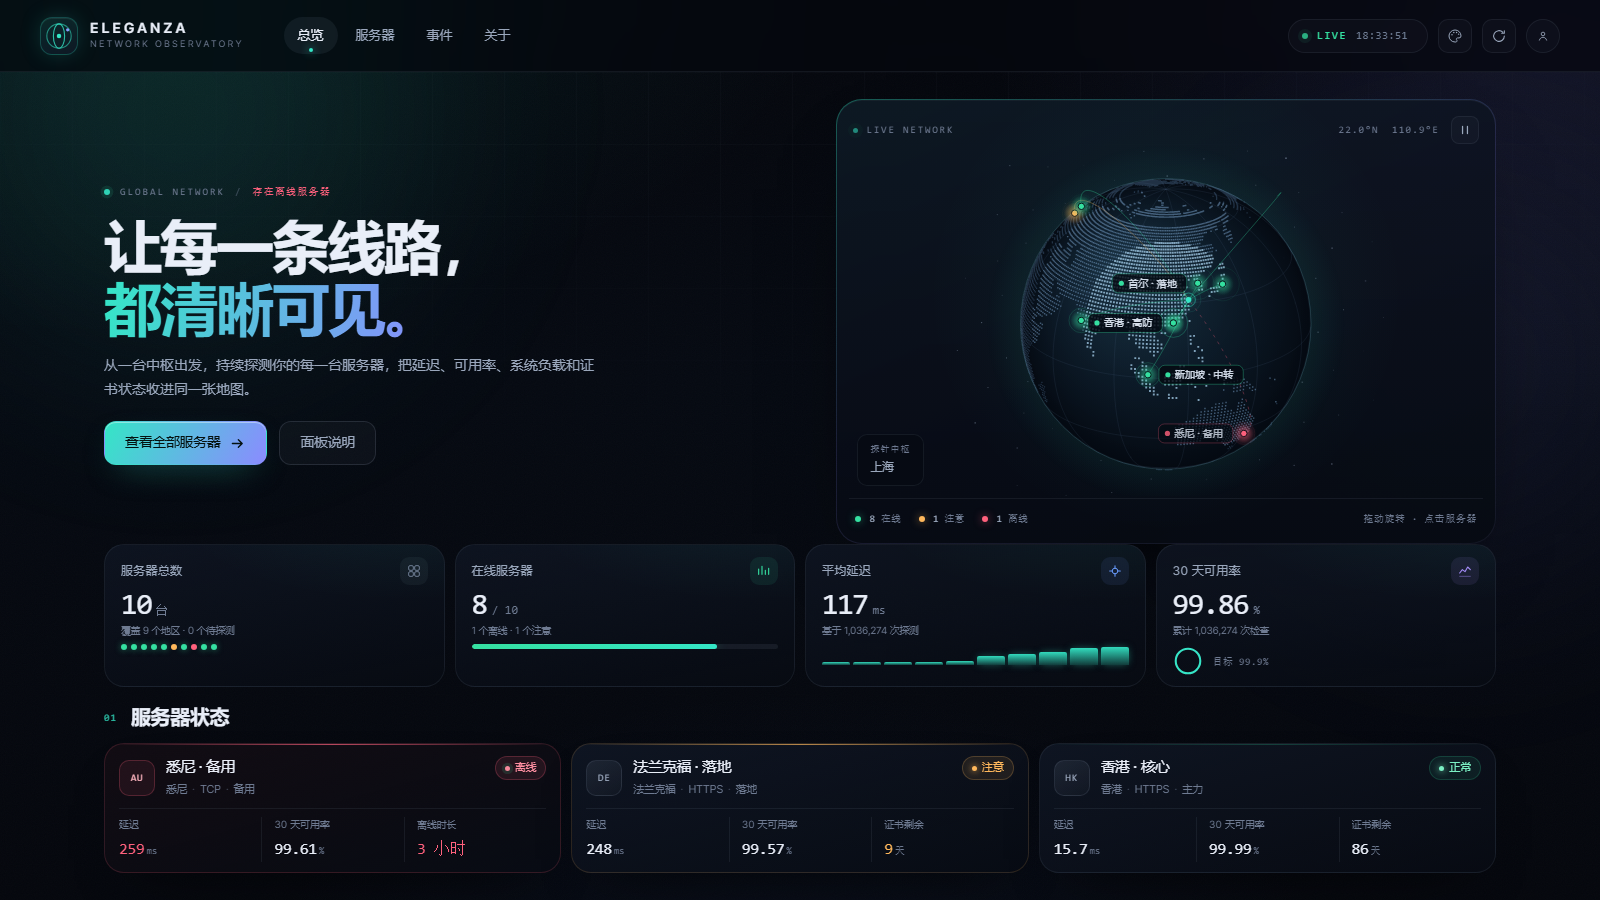
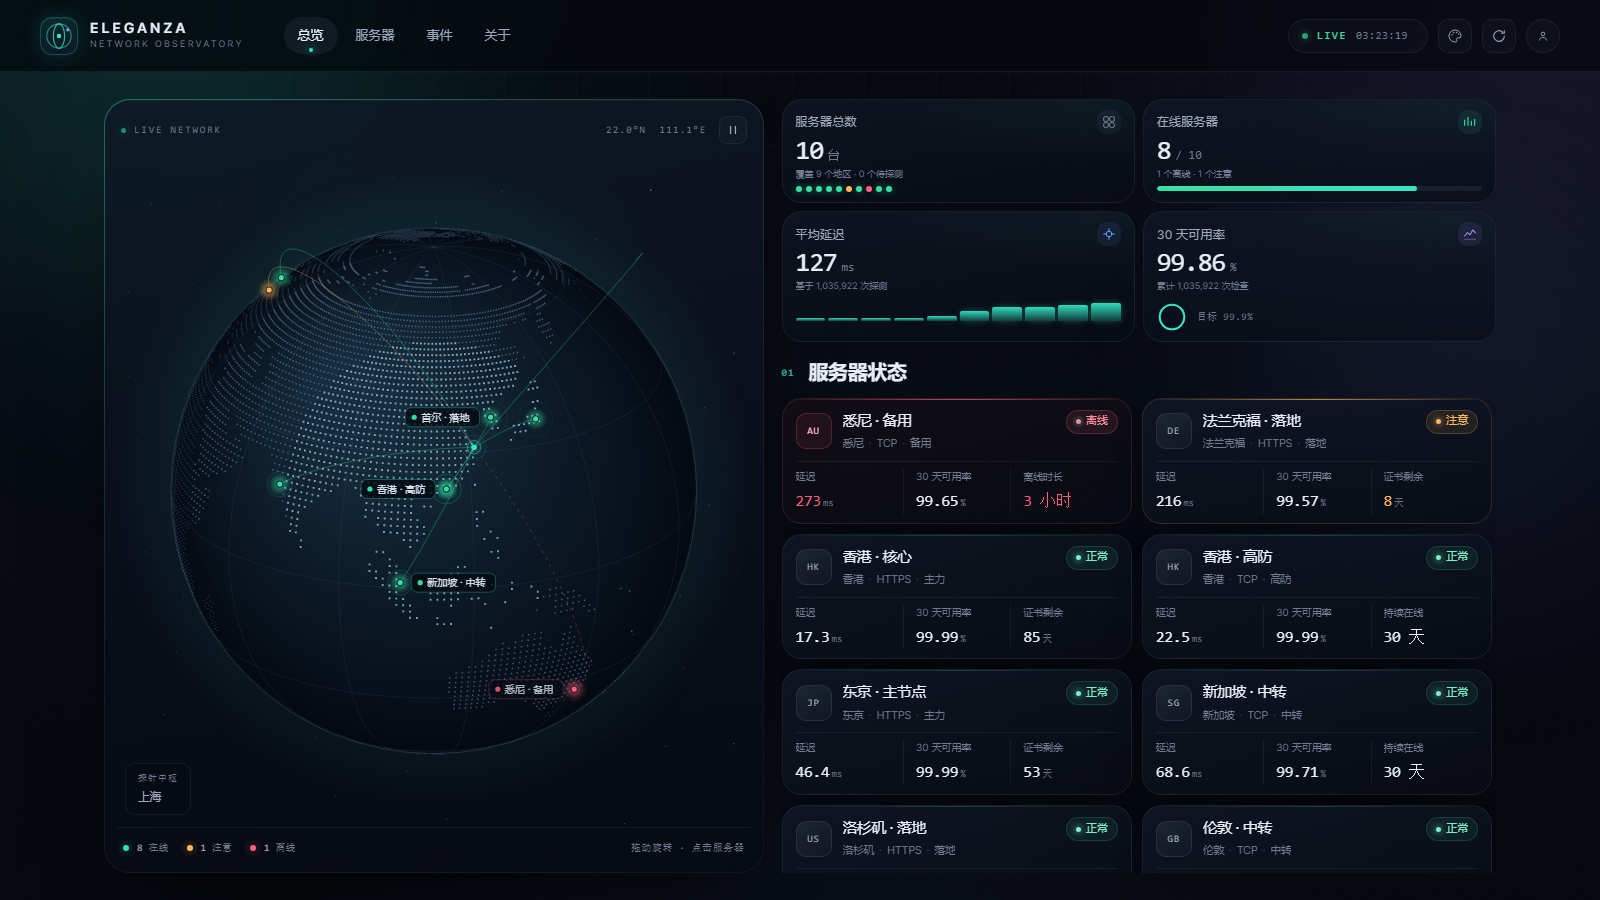
overview: left-right globe and server list layout

diff --git a/public/pages.css b/public/pages.css
@@ -30,39 +30,25 @@ body[data-page="about"] .footer {
 
 /* ----------------------------------------------------------------- overview */
 
+body[data-page="overview"] .shell {
+  display: grid;
+  grid-template-columns: minmax(0, 0.96fr) minmax(0, 1.04fr);
+  grid-template-rows: auto minmax(0, 1fr);
+  gap: 14px 18px;
+}
+
 body[data-page="overview"] .status-banner,
-body[data-page="overview"] .split {
+body[data-page="overview"] .split,
+body[data-page="overview"] .hero-copy {
   display: none;
 }
 
 body[data-page="overview"] .hero {
-  flex: 1;
+  grid-column: 1;
+  grid-row: 1 / -1;
+  display: block;
   min-height: 0;
   padding: 0;
-  gap: clamp(20px, 3vw, 46px);
-}
-
-body[data-page="overview"] .hero-copy {
-  min-height: 0;
-}
-
-body[data-page="overview"] .hero h1 {
-  margin: 14px 0 12px;
-  font-size: clamp(34px, 3.65vw, 58px);
-}
-
-body[data-page="overview"] .hero-desc {
-  max-width: 500px;
-  font-size: 14px;
-  line-height: 1.72;
-}
-
-body[data-page="overview"] .hero-actions {
-  margin-top: 20px;
-}
-
-body[data-page="overview"] .hero-metrics {
-  display: none;
 }
 
 body[data-page="overview"] .globe-panel {
@@ -76,45 +62,53 @@ body[data-page="overview"] .globe-stage {
 }
 
 body[data-page="overview"] .kpis {
-  flex: 0 0 auto;
-  gap: 10px;
-  margin: 0 0 14px;
-}
-
-body[data-page="overview"] .kpi-card {
-  padding: 12px 16px 10px;
-}
-
-body[data-page="overview"] .kpi-icon {
-  width: 28px;
-  height: 28px;
-}
-
-body[data-page="overview"] .kpi-value {
-  margin-top: 4px;
-  font-size: clamp(24px, 2vw, 30px);
-}
-
-body[data-page="overview"] .kpi-foot {
-  margin-top: 4px;
-  font-size: 9.5px;
-}
-
-body[data-page="overview"] .kpi-visual {
-  margin-top: 5px;
-}
-
-body[data-page="overview"] .kpi-meter {
-  margin-top: 6px;
-}
-
-body[data-page="overview"] .nodes-section {
-  flex: 0 0 auto;
-  min-height: 0;
+  grid-column: 2;
+  grid-row: 1;
+  display: grid;
+  grid-template-columns: repeat(2, minmax(0, 1fr));
+  gap: 8px;
   margin: 0;
 }
 
+body[data-page="overview"] .kpi-card {
+  padding: 10px 13px 9px;
+}
+
+body[data-page="overview"] .kpi-icon {
+  width: 24px;
+  height: 24px;
+}
+
+body[data-page="overview"] .kpi-value {
+  margin-top: 3px;
+  font-size: clamp(21px, 1.8vw, 27px);
+}
+
+body[data-page="overview"] .kpi-foot {
+  margin-top: 3px;
+  font-size: 9px;
+}
+
+body[data-page="overview"] .kpi-visual {
+  margin-top: 4px;
+}
+
+body[data-page="overview"] .kpi-meter {
+  margin-top: 5px;
+}
+
+body[data-page="overview"] .nodes-section {
+  grid-column: 2;
+  grid-row: 2;
+  flex: 1;
+  min-height: 0;
+  margin: 0;
+  display: flex;
+  flex-direction: column;
+}
+
 body[data-page="overview"] .nodes-section .section-head {
+  flex-shrink: 0;
   align-items: center;
   margin-bottom: 10px;
 }
@@ -130,21 +124,23 @@ body[data-page="overview"] .nodes-section .node-tools {
 }
 
 body[data-page="overview"] .node-grid {
-  grid-template-columns: repeat(3, minmax(0, 1fr));
+  flex: 1;
+  min-height: 0;
+  overflow-y: auto;
+  grid-auto-rows: max-content;
+  grid-template-columns: repeat(2, minmax(0, 1fr));
   gap: 10px;
-}
-
-body[data-page="overview"] .node-grid .node-card:nth-child(n + 4) {
-  display: none;
+  padding-right: 4px;
+  scrollbar-width: thin;
 }
 
 body[data-page="overview"] .node-card {
-  padding: 12px 14px 10px;
+  padding: 11px 13px 9px;
 }
 
 body[data-page="overview"] .node-stats {
-  margin-top: 9px;
-  padding-top: 8px;
+  margin-top: 8px;
+  padding-top: 7px;
 }
 
 body[data-page="overview"] .spark,
@@ -434,18 +430,29 @@ body[data-page="about"] .info-note {
     padding-bottom: 32px;
   }
 
+  body[data-page="overview"] .shell {
+    display: flex;
+    flex-direction: column;
+    gap: 14px;
+  }
+
   body[data-page="overview"] .hero {
-    flex: 0 0 auto;
-    grid-template-columns: 1fr;
-    padding: 12px 0 18px;
+    display: block;
+    padding: 0;
   }
 
   body[data-page="overview"] .globe-panel {
     height: auto;
-    min-height: 400px;
+    min-height: 420px;
+  }
+
+  body[data-page="overview"] .nodes-section {
+    flex: 0 0 auto;
   }
 
   body[data-page="overview"] .node-grid {
+    flex: none;
+    overflow: visible;
     grid-template-columns: repeat(2, minmax(0, 1fr));
   }
 

diff --git a/README.md b/README.md
@@ -69,7 +69,8 @@ Eleganza 把自己定位成 **只读的观测面板**，不接管代理协议、
 - **实时地球**：纯 Canvas 绘制的 3D 点阵地球，节点脉冲、中枢弧线、鼠标拖动旋转、点击节点打开详情。
 - **两种探针**：服务端主动探测 HTTP / HTTPS / TCP，支持状态码白名单、关键字、TLS 证书天数；资源类指标由 Agent 反向推送。
 - **管理员接入**：仅管理员可见「探针指令」；点击生成命令时自动创建待接入服务器和专属 agentKey，命令内已包含密钥，不需要手动编辑 `config.json`，也无需再输入 Token。支持首次安装与 `FORCE=1` 覆盖安装。
-- **独立页面**：总览、服务器、事件、关于拆成独立网页（`/`、`/servers.html`、`/events.html`、`/about.html`），服务器/事件/关于按 16:9 桌面视图重新排版。
+- **独立页面**：总览、服务器、事件、关于拆成独立网页（`/`、`/servers.html`、`/events.html`、`/about.html`），四个页面均按 16:9 桌面视图排版。
+- **总览布局**：左侧 3D 点阵地球，右侧指标与完整服务器列表；不再显示顶部主视觉文案，服务器卡片可滚动展示全部节点。
 - **IP 定位**：探针中枢按面板公网 IP 定位；Agent 按上报的公网 IP 定位；普通 HTTP/TCP 探针按解析到的 IP 定位。坐标优先使用 IP 位置，失败才回退到 `config.json` 的 `lat/lon`。Agent 还会上报 CPU、内存、磁盘和负载；定位结果缓存 6 小时。
 - **服务器状态**：自动刷新间隔为 60 秒；示例节点默认不写入正式配置。
 - **30 天可用率**：按小时聚合的长期桶，按天着色；另有 1h / 24h / 7d / 30d 延迟曲线。
